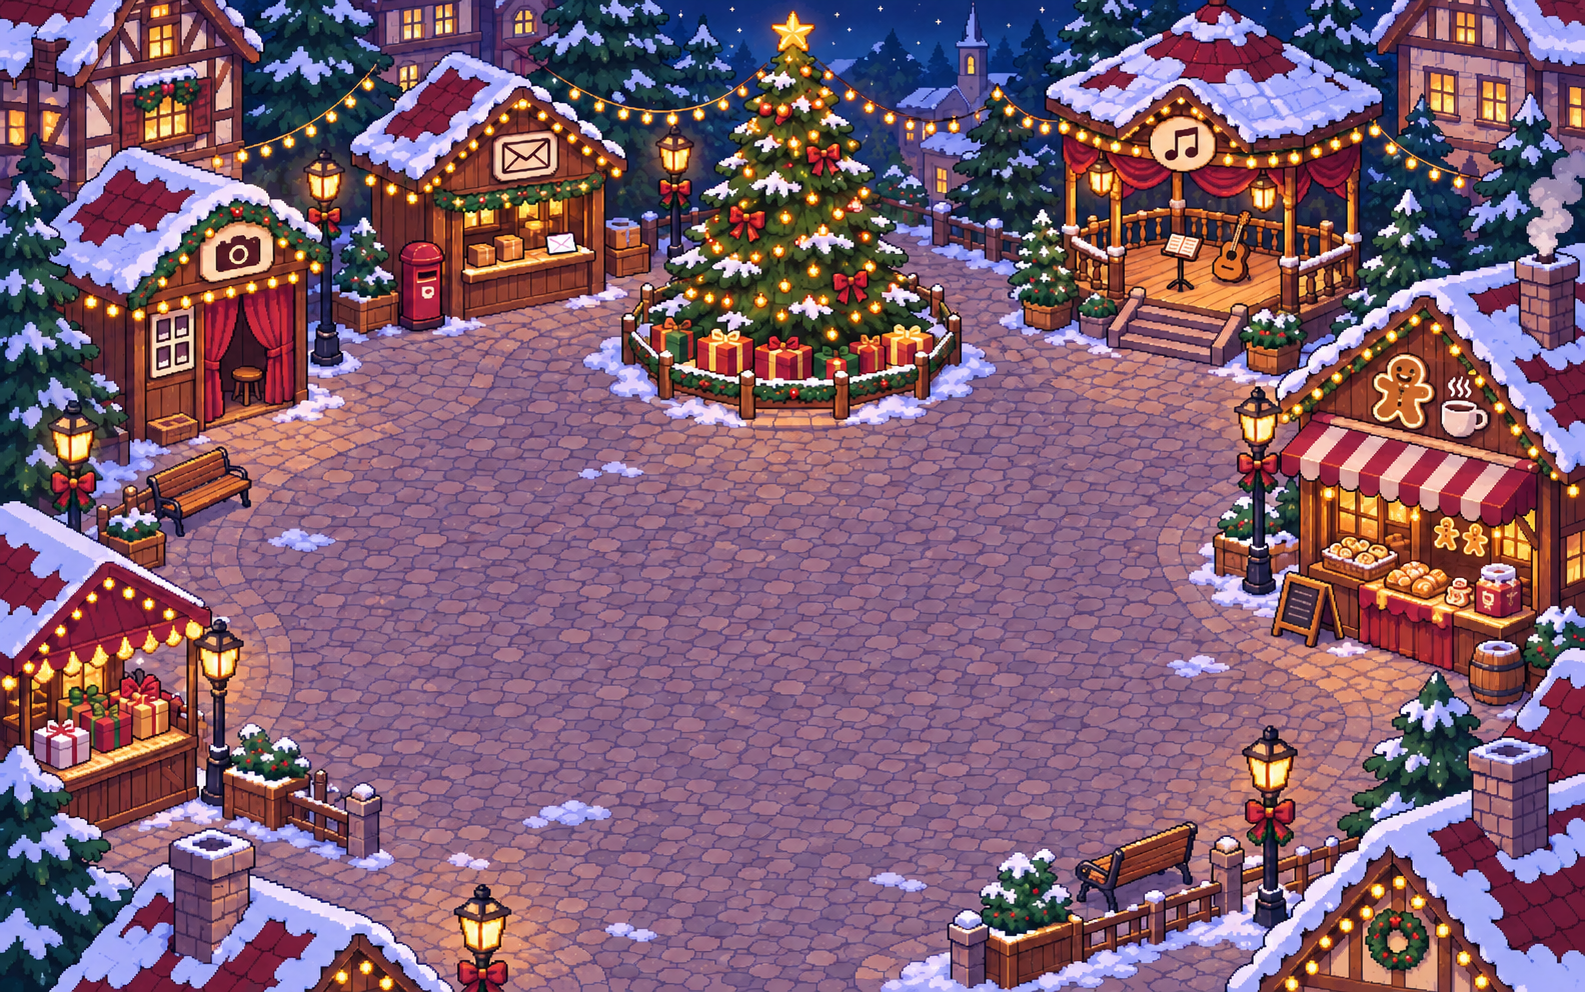
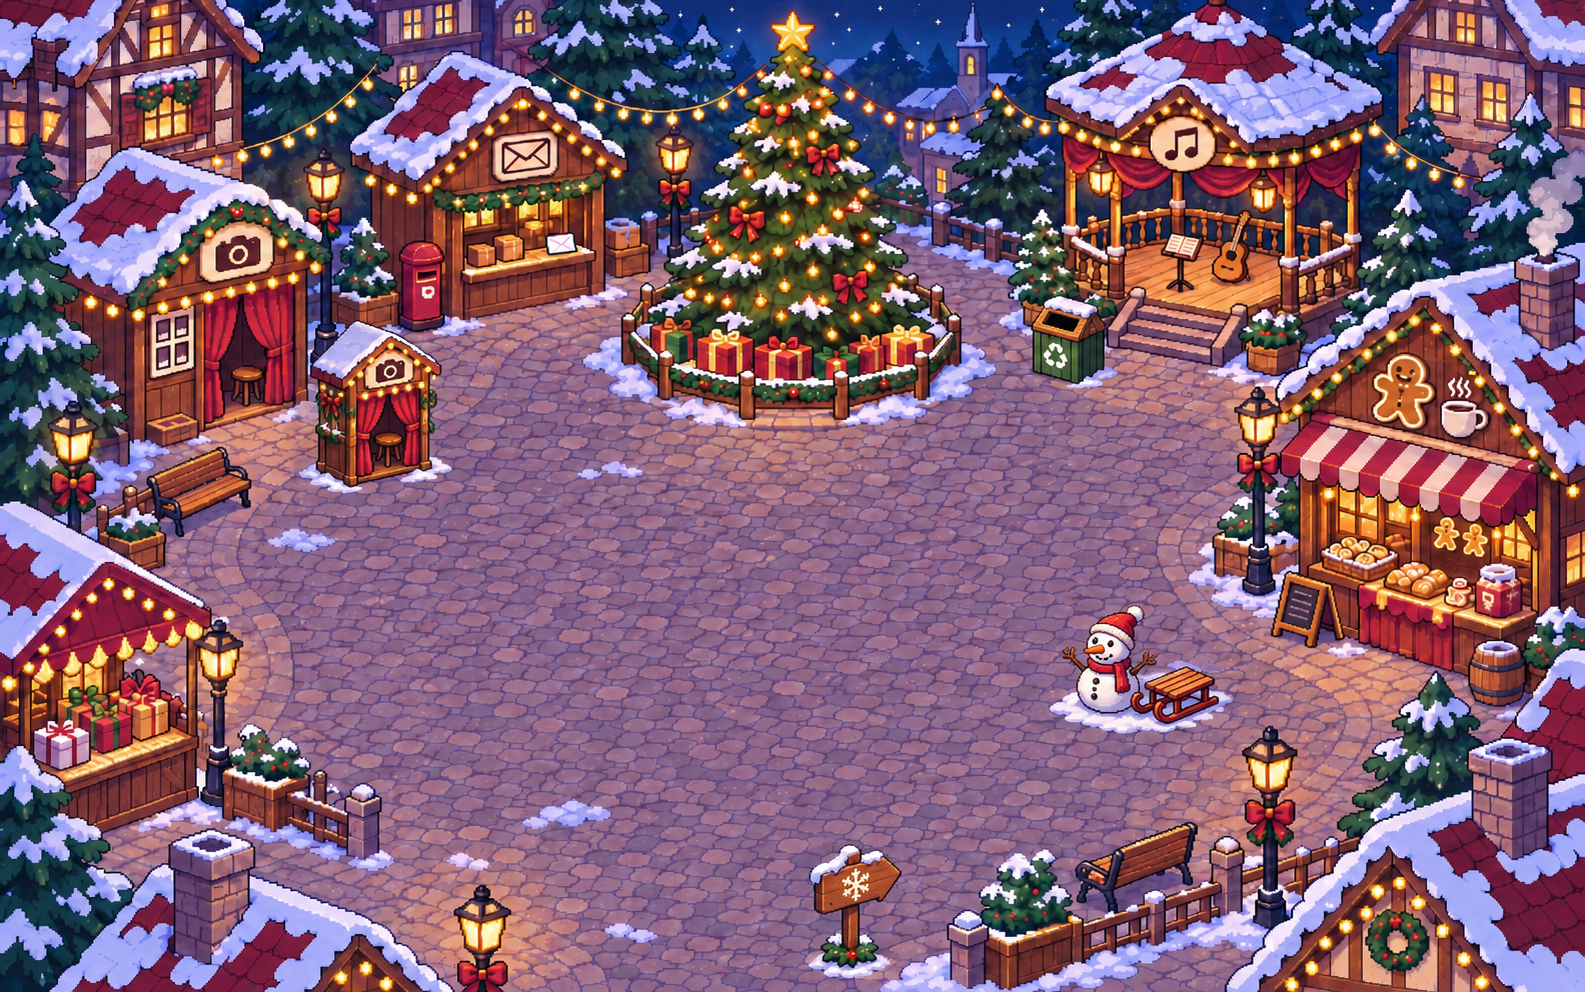
feat: second commit

diff --git a/style.css b/style.css
@@ -851,14 +851,18 @@ select {
   image-rendering: pixelated;
   will-change: transform;
 }
-.market-world::before {
-  content: "";
+.market-highlight-map {
   position: absolute;
-  z-index: 2;
+  z-index: 1;
   inset: 0;
+  opacity: 0;
+  background-position: center;
+  background-size: 100% 100%;
+  background-repeat: no-repeat;
+  transition: opacity .14s ease;
   pointer-events: none;
-  background: linear-gradient(180deg, rgba(16, 28, 26, .18), transparent 24%, transparent 74%, rgba(16, 28, 26, .16));
 }
+.market-highlight-map.is-visible { opacity: 1; }
 
 #desktop.winter-market .desktop-icons {
   position: absolute;
@@ -879,75 +883,15 @@ select {
   filter: none;
 }
 
-#desktop.winter-market .dicon[data-market-id="photo"] { left: 0%; top: 12%; width: 25%; height: 39%; }
+#desktop.winter-market .dicon[data-market-id="photo"] { left: 0%; top: 12%; width: 22%; height: 38%; }
 #desktop.winter-market .dicon[data-market-id="letter"] { left: 24%; top: 4%; width: 22%; height: 35%; }
 #desktop.winter-market .dicon[data-market-id="music"] { left: 65%; top: 5%; width: 23%; height: 32%; }
-#desktop.winter-market .dicon[data-market-id="gift"] { left: 78%; top: 29%; width: 22%; height: 36%; z-index: 1; }
+#desktop.winter-market .dicon[data-market-id="market"] { left: 78%; top: 29%; width: 22%; height: 36%; z-index: 1; }
 #desktop.winter-market .dicon[data-market-id="tree"] { left: 39%; top: 5%; width: 23%; height: 38%; }
-
-#desktop.winter-market .dicon::before {
-  content: "";
-  position: absolute;
-  inset: 0;
-  opacity: 0;
-  background-position: center;
-  background-repeat: no-repeat;
-  background-size: 100% 100%;
-  transition: opacity .16s ease, filter .16s ease, transform .16s ease;
-  pointer-events: none;
-}
-
-#desktop.winter-market .dicon[data-market-id="photo"]::before {
-  background-image: url("assets/highlights/photo-booth.svg");
-}
-#desktop.winter-market .dicon[data-market-id="letter"]::before {
-  background-image: url("assets/highlights/post-office.svg");
-}
-#desktop.winter-market .dicon[data-market-id="music"]::before {
-  background-image: url("assets/highlights/carol-stage.svg");
-}
-#desktop.winter-market .dicon[data-market-id="gift"]::before {
-  background-image: url("assets/highlights/gingerbread-stall.svg");
-}
-#desktop.winter-market .dicon[data-market-id="tree"]::before {
-  background-image: url("assets/highlights/christmas-tree.svg");
-}
-#desktop.winter-market .dicon[data-market-id="photo"]::after {
-  clip-path: polygon(0 34%, 16% 10%, 43% 0, 91% 20%, 100% 49%, 95% 100%, 0 100%);
-}
-#desktop.winter-market .dicon[data-market-id="letter"]::after {
-  clip-path: polygon(0 43%, 13% 15%, 52% 0, 92% 22%, 100% 100%, 0 100%);
-}
-#desktop.winter-market .dicon[data-market-id="music"]::after {
-  clip-path: polygon(0 43%, 24% 13%, 59% 0, 96% 23%, 100% 100%, 0 100%);
-}
-#desktop.winter-market .dicon[data-market-id="gift"]::after {
-  clip-path: polygon(0 46%, 42% 4%, 71% 0, 100% 23%, 100% 100%, 0 100%);
-}
-#desktop.winter-market .dicon[data-market-id="tree"]::after {
-  clip-path: polygon(45% 0, 60% 10%, 55% 22%, 70% 35%, 64% 48%, 78% 60%, 72% 78%, 100% 100%, 0 100%, 28% 78%, 20% 60%, 35% 47%, 28% 33%, 44% 21%, 38% 10%);
-}
-#desktop.winter-market .dicon::after {
-  content: "";
-  position: absolute;
-  inset: 0;
-  opacity: 0;
-  transition: opacity .16s ease;
-  pointer-events: none;
-  backdrop-filter: brightness(1.16) saturate(1.12);
-}
-#desktop.winter-market .dicon:hover::before,
-#desktop.winter-market .dicon:focus-visible::before,
-#desktop.winter-market .dicon.sel::before {
-  opacity: 1;
-  filter: drop-shadow(0 0 5px rgba(255, 235, 187, .86)) drop-shadow(0 0 12px rgba(244, 184, 92, .48));
-  transform: scale(1.012);
-}
-#desktop.winter-market .dicon:hover::after,
-#desktop.winter-market .dicon:focus-visible::after,
-#desktop.winter-market .dicon.sel::after {
-  opacity: .6;
-}
+#desktop.winter-market .dicon[data-market-id="booth"] { left: 19%; top: 33%; width: 10%; height: 17%; z-index: 2; }
+#desktop.winter-market .dicon[data-market-id="internet"] { left: 50%; top: 82%; width: 8%; height: 14%; z-index: 2; }
+#desktop.winter-market .dicon[data-market-id="trash"] { left: 64%; top: 29%; width: 8%; height: 12%; z-index: 2; }
+#desktop.winter-market .dicon[data-market-id="game"] { left: 66%; top: 59%; width: 12%; height: 16%; z-index: 2; }
 
 #desktop.winter-market .dicon .lb {
   position: absolute;
@@ -965,8 +909,18 @@ select {
   pointer-events: none;
 }
 
-#desktop.winter-market .dicon.sel .lb { background: #9b4536; color: #fff7e4; }
-#desktop.winter-market .dicon .ic { display: none; }
+#desktop.winter-market .dicon:hover .lb,
+#desktop.winter-market .dicon:focus-visible .lb,
+#desktop.winter-market .dicon.sel .lb {
+  border-color: #fff8dd;
+  background: #9b4536;
+  color: #fff7e4;
+  box-shadow: 0 0 8px #fff1ca99;
+}
+
+.gallery-choice { display: flex; flex-direction: column; align-items: center; justify-content: center; gap: 12px; }
+.gallery-choice-title { margin: 0 0 4px; color: #315247; font: 14px "Departure Mono", monospace; }
+.gallery-choice-button { min-width: 190px; padding: 9px 12px; }
 
 .market-banner {
   position: absolute;

diff --git a/app.js b/app.js
@@ -151,6 +151,31 @@
   // ---------- desktop ----------
   var MAP_WIDTH = 1585, MAP_HEIGHT = 992;
   var camera = { scale: 1, x: 0, y: 0 };
+  var selectedMapHighlight = null, requestedMapHighlight = null, mapHighlightCache = Object.create(null);
+  function showMapHighlight(path) {
+    var layer = $("#market-highlight-map");
+    requestedMapHighlight = path || null;
+    if (!path) {
+      layer.classList.remove("is-visible");
+      return;
+    }
+    if (mapHighlightCache[path] === true) {
+      layer.style.backgroundImage = 'url("' + path + '")';
+      layer.classList.add("is-visible");
+      return;
+    }
+    if (mapHighlightCache[path]) return;
+    var image = new Image();
+    mapHighlightCache[path] = image;
+    image.onload = function () {
+      mapHighlightCache[path] = true;
+      if (requestedMapHighlight === path) {
+        layer.style.backgroundImage = 'url("' + path + '")';
+        layer.classList.add("is-visible");
+      }
+    };
+    image.src = path;
+  }
   function updateCamera() {
     var desktop = $("#desktop"), world = $(".market-world"), player = $("#player");
     if (!desktop || !world || !player || desktop.hidden) return;
@@ -178,12 +203,19 @@
       d.setAttribute("role", "button");
       d.setAttribute("tabindex", "0");
       d.setAttribute("aria-label", ic.label + " 가판대 열기");
+      d.title = ic.label;
       var label = el("span", "lb"); label.textContent = ic.label;
       d.appendChild(label);
       var open = function () { launch(ic); };
+      d.addEventListener("mouseenter", function () { showMapHighlight(ic.highlight); });
+      d.addEventListener("mouseleave", function () { showMapHighlight(selectedMapHighlight); });
+      d.addEventListener("focus", function () { showMapHighlight(ic.highlight); });
+      d.addEventListener("blur", function () { showMapHighlight(selectedMapHighlight); });
       d.addEventListener("click", function () {
         document.querySelectorAll(".dicon.sel").forEach(function (x) { x.classList.remove("sel"); });
         d.classList.add("sel");
+        selectedMapHighlight = ic.highlight;
+        showMapHighlight(selectedMapHighlight);
         walkTo(d);
         window.setTimeout(open, 180);
       });
@@ -195,6 +227,8 @@
     dt.addEventListener("click", function (e) {
       if (e.target === dt || e.target === world || e.target === iconGrid) {
         document.querySelectorAll(".dicon.sel").forEach(function (x) { x.classList.remove("sel"); });
+        selectedMapHighlight = null;
+        showMapHighlight(null);
         movePlayer(e.clientX, e.clientY);
       }
     });
@@ -255,13 +289,32 @@
 
   function launch(ic) {
     if (ic.type === "information") openInformation(ic.windowTitle);
+    else if (ic.type === "gallery") openGalleryChoice();
     else if (ic.type === "folder") openFolder(ic.ref);
     else if (ic.type === "note") openNote(ic.ref);
     else if (ic.type === "gift") $("#memo-add").click();
     else if (ic.type === "photobooth") openBooth();
     else if (ic.type === "paint") openPaint();
+    else if (ic.type === "game") openMinesweeper();
     else if (ic.type === "link") window.open(ic.url, "_blank", "noopener");
     else if (ic.type === "trash") alert("휴지통은 비어 있어요. 우리 추억은 하나도 버리지 않았거든요.");
+  }
+
+  function openGalleryChoice() {
+    var chooser = createWin("photo-gallery-choice", "사진관", { w: 390, h: 250 }, function (w, body) {
+      var content = el("div", "content gallery-choice");
+      content.appendChild(el("p", "gallery-choice-title", "무엇을 볼까요?"));
+      [["📷 사진 보기", "photo"], ["🎞 영상 보기", "video"]].forEach(function (choice) {
+        var button = el("button", "btn gallery-choice-button", choice[0]);
+        button.onclick = function () {
+          w.el.querySelector(".titlebar .tbtn:last-child").click();
+          openFolder(choice[1]);
+        };
+        content.appendChild(button);
+      });
+      body.appendChild(content);
+    });
+    return chooser;
   }
 
   // ---------- window manager ----------

diff --git a/data.js b/data.js
@@ -17,11 +17,15 @@ window.SITE = {
 
   // 마켓 가판대가 바탕화면 아이콘을 대신합니다.
   icons: [
-    { id: "photo", label: "사진관", icon: "assets/icons/market-photo.svg", type: "folder", ref: "photo", windowTitle: "우리의 겨울 사진" },
-    { id: "letter", label: "편지 우체국", icon: "assets/icons/market-post.svg", type: "note", ref: "letter", windowTitle: "크리스마스 편지" },
-    { id: "music", label: "캐럴 무대", icon: "assets/icons/market-music.svg", type: "folder", ref: "record", windowTitle: "겨울 플레이리스트" },
-    { id: "gift", label: "선물 놓는 곳", icon: "assets/icons/market-gift.svg", type: "gift", windowTitle: "선물 남기기" },
-    { id: "tree", label: "우리의 트리", icon: "assets/icons/market-tree.svg", type: "information", windowTitle: "우리의 크리스마스" }
+    { id: "photo", label: "사진관", type: "gallery", highlight: "assets/highlights/maps/photo-studio.jpg" },
+    { id: "letter", label: "편지 우체국", type: "note", ref: "letter", windowTitle: "크리스마스 편지", highlight: "assets/highlights/maps/post-office.jpg" },
+    { id: "music", label: "캐럴 무대", type: "folder", ref: "record", windowTitle: "겨울 플레이리스트", highlight: "assets/highlights/maps/music-stage.jpg" },
+    { id: "market", label: "크리스마스 마켓", type: "paint", highlight: "assets/highlights/maps/christmas-market.jpg" },
+    { id: "tree", label: "우리의 트리", type: "information", windowTitle: "우리의 크리스마스", highlight: "assets/highlights/maps/christmas-tree.jpg" },
+    { id: "booth", label: "포토부스", type: "photobooth", highlight: "assets/highlights/maps/photo-booth.jpg" },
+    { id: "internet", label: "마켓 안내", type: "link", url: "https://urluv.shop/", highlight: "assets/highlights/maps/market-sign.jpg" },
+    { id: "trash", label: "분리수거함", type: "trash", highlight: "assets/highlights/maps/recycling-bin.jpg" },
+    { id: "game", label: "눈사람 게임", type: "game", highlight: "assets/highlights/maps/snowman-sled.jpg" }
   ],
 
   information: { specialDate: "12월 25일", specialPlace: "우리의 겨울 마켓", story: "올해도 함께여서 참 좋았어." },
@@ -36,6 +40,10 @@ window.SITE = {
         { name: "마켓 산책.jpg", type: "image", src: "", caption: "마켓을 걷던 밤" },
         { name: "우리의 트리.jpg", type: "image", src: "", caption: "올해의 우리" }
       ]
+    },
+    video: {
+      title: "겨울 영상",
+      files: [{ name: "우리의 크리스마스.mp4", type: "video", src: "", caption: "함께 보낸 겨울의 순간" }]
     },
     record: {
       title: "겨울 플레이리스트",

diff --git a/index.html b/index.html
@@ -30,6 +30,7 @@
   <div id="desktop" class="winter-market" hidden>
     <div class="market-banner"><strong>❄ URLUV WINTER MARKET</strong><span>마켓을 산책하고, 가판대를 눌러 추억을 열어보세요.</span><kbd>W A S D</kbd><kbd>↑ ↓ ← →</kbd></div>
     <div class="market-world">
+      <div id="market-highlight-map" class="market-highlight-map" aria-hidden="true"></div>
       <div id="player" aria-label="내 캐릭터" style="left:50%;top:62%"><span class="avatar-sprite" aria-hidden="true"></span><span class="player-name">나</span></div>
     </div>
     <div class="market-dpad" aria-label="캐릭터 이동">
@@ -56,7 +57,6 @@
         <a id="renewal-link" href="https://urluv.shop/" target="_blank" rel="noopener noreferrer">Yes ↗</a>
       </section>
       <button data-act="information"><img class="sm-icon" src="assets/icons/market-tree.svg" alt="" draggable="false"><span>우리의 트리</span></button>
-      <button data-act="gift"><img class="sm-icon" src="assets/icons/market-gift.svg" alt="" draggable="false"><span>선물 남기기</span></button>
       <hr>
       <button data-act="logout">🔒 Log Off</button>
     </div>
